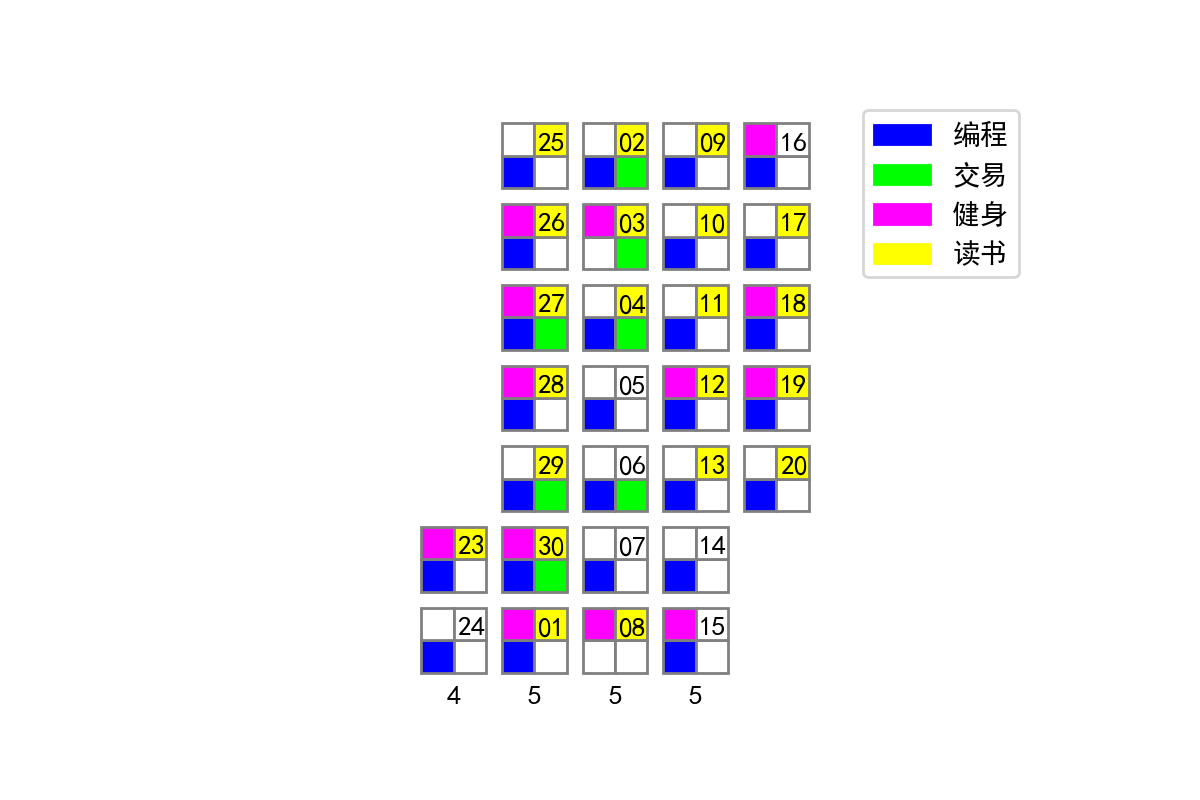
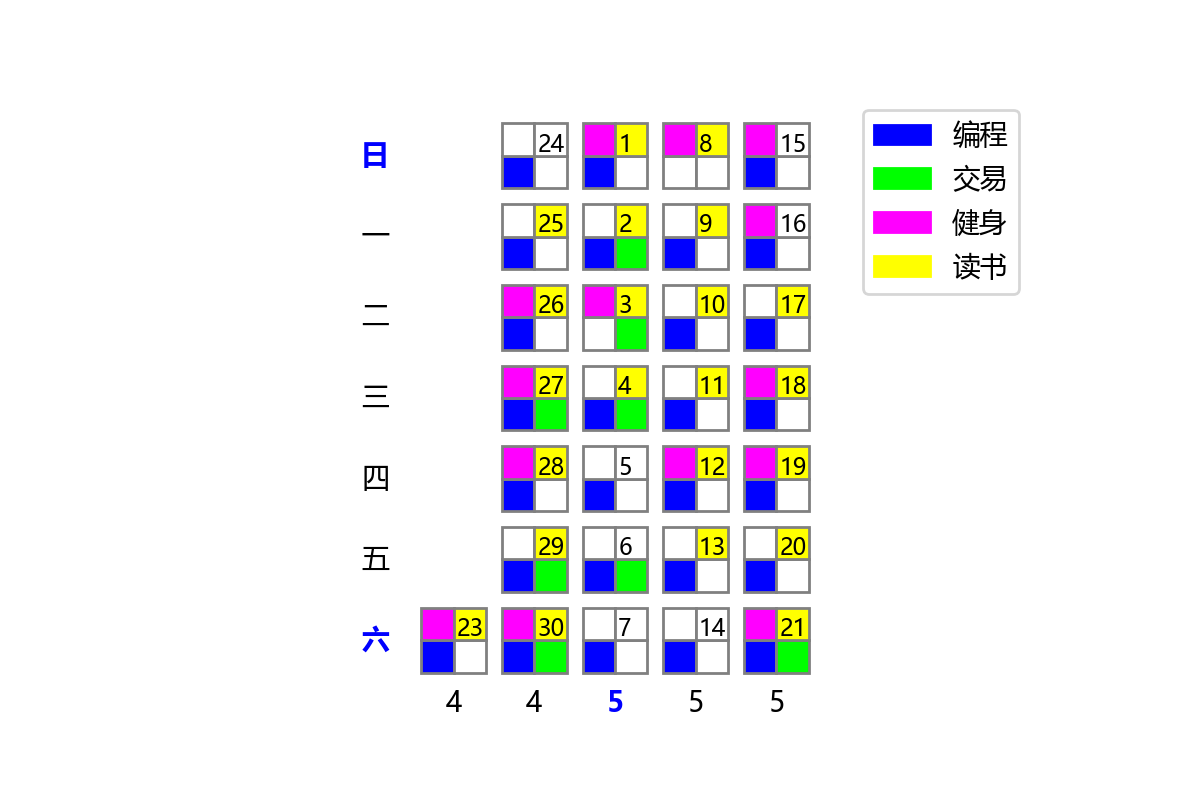
+ Refactor codes and improve calendar formats

diff --git a/data_vis.py b/data_vis.py
@@ -4,7 +4,7 @@ from matplotlib.patches import Rectangle, Patch
 import pandas as pd
 import datetime
 
-plt.rcParams["font.sans-serif"] = ["SimHei"]
+plt.rcParams["font.sans-serif"] = ["Microsoft Yahei"]
 plt.rc("axes", unicode_minus=False)
 
 
@@ -27,62 +27,107 @@ class CalendarPlotter:
     def __init__(self, data_filename="data.csv"):
         self.aspect = 8
         self.action_color_dict = {
-            "code": "#0000FF",
-            "trade": "#00FF00",
-            "body": "#FF00FF",
-            "read": "#FFFF00",
+            "code": "#0000FF",  # blue
+            "trade": "#00FF00",  # green
+            "body": "#FF00FF",  # pink
+            "read": "#FFFF00",  # yellow
         }
+        self.weekday_zh_list = ["日", "一", "二", "三", "四", "五", "六"]
         self.data_parser = DataParser(data_filename)
         self.df = self.data_parser.df
 
     def plot(self):
-        fig, ax = plt.subplots(dpi=200)
-        ax.set_aspect(self.aspect)
+        fig, self.ax = plt.subplots(dpi=200)
+        self.ax.set_aspect(self.aspect)
+        self.ax.axis("off")
 
-        # Plot daily blocks
         row0 = self.df.iloc[[0]]
-        wk_offset = row0["date"][0].isoweekday() - 1
-        rect_x_len = 1
-        rect_y_len = rect_x_len / self.aspect
+        self.wk_offset = row0["date"][0].isoweekday()
+        self.rect_x_len = 1
+        self.rect_y_len = self.rect_x_len / self.aspect
+        self.rect_y_gap = 2.5
         for ida, row in self.df.iterrows():
-            for idb, (action, color) in enumerate(self.action_color_dict.items()):
-                # Plot color blocks
-                rect_x = rect_x_len * ((idb % 2) + 2.5 * ((ida + wk_offset) // 7))
-                rect_y = rect_y_len * ((idb // 2) - 2.5 * ((ida + wk_offset) % 7))
-                facecolor = color if row[action] == 1 else "white"
-                rect = Rectangle(
-                    (rect_x, rect_y),
-                    *(rect_x_len, rect_y_len),
-                    facecolor=facecolor,
-                    edgecolor="gray",
-                )
-                ax.add_patch(rect)
+            rect_x, rect_y = self.plot_daily_rects(ida, row)
+            self.plot_day_month_texts(row, rect_x, rect_y)
+        self.plot_week_texts()
+        self.plot_legends()
 
-            # Plot day and month texts
-            date = row["date"]
-            day_text_x = rect_x + rect_x_len / 10
-            day_text_y = rect_y + rect_y_len / 8
-            date_text_str = f"{date.day:02}"
-            plt.text(day_text_x, day_text_y, date_text_str)
+        self.ax.plot()
+        # plt.show()
+        plt.savefig("calendar.png")
 
-            if date.isoweekday() == 7:
-                month_text_x = rect_x
-                month_text_y = rect_y - rect_y_len * 2
-                month_text_str = f"{date.month}"
-                # month_text_str = date.strftime("%b")
-                plt.text(month_text_x, month_text_y, month_text_str, ha="center")
+    def plot_daily_rects(self, ida, row):
+        for idb, (action, color) in enumerate(self.action_color_dict.items()):
+            rect_x = self.rect_x_len * (
+                (idb % 2) + self.rect_y_gap * ((ida + self.wk_offset) // 7)
+            )
+            rect_y = self.rect_y_len * (
+                (idb // 2) - self.rect_y_gap * ((ida + self.wk_offset) % 7)
+            )
+            facecolor = color if row[action] == 1 else "white"
+            rect = Rectangle(
+                (rect_x, rect_y),
+                *(self.rect_x_len, self.rect_y_len),
+                facecolor=facecolor,
+                edgecolor="gray",
+            )
+            self.ax.add_patch(rect)
+        return rect_x, rect_y
 
-        # Plot legends
+    def plot_day_month_texts(self, row, rect_x, rect_y):
+        # Plot day texts
+        date = row["date"]
+        day_text_x = rect_x + self.rect_x_len / 10
+        day_text_y = rect_y + self.rect_y_len / 8
+        date_text_str = f"{date.day:01}"
+        plt.text(day_text_x, day_text_y, date_text_str, fontsize="small")
+
+        # Plot month texts
+        if date.isoweekday() == 6:
+            month_text_x = rect_x
+            month_text_y = rect_y - self.rect_y_len * 1.5
+            month_text_str = f"{date.month}"
+            # month_text_str = date.strftime("%b")
+            one_week_delta = datetime.timedelta(days=7)
+            if date.month == (date - one_week_delta).month:
+                color, fontweight = "black", "normal"
+            else:
+                color, fontweight = "blue", "bold"
+            plt.text(
+                month_text_x,
+                month_text_y,
+                month_text_str,
+                va="top",
+                ha="center",
+                color=color,
+                fontweight=fontweight,
+            )
+
+    def plot_week_texts(self):
+        for i in range(7):
+            weekday_text_y = self.rect_y_len * (-self.rect_y_gap * i + 1)
+            weekday_text_x = self.rect_x_len * (-1.0)
+            weekday_text_str = self.weekday_zh_list[i]
+            if i not in [0, 6]:
+                color, fontweight = "black", "normal"
+            else:
+                color, fontweight = "blue", "bold"
+            plt.text(
+                weekday_text_x,
+                weekday_text_y,
+                weekday_text_str,
+                va="center",
+                ha="right",
+                color=color,
+                fontweight=fontweight,
+            )
+
+    def plot_legends(self):
         handles = []
         for idb, (action, color) in enumerate(self.action_color_dict.items()):
             patch = Patch(color=color, label=self.data_parser.action_en_zh_dict[action])
             handles.append(patch)
         plt.legend(handles=handles, bbox_to_anchor=(1.05, 1))
-
-        ax.axis("off")
-        ax.plot()
-        # plt.show()
-        plt.savefig("calendar.png")
 
 
 calendar_plotter = CalendarPlotter()

diff --git a/bodybuiding.md b/bodybuiding.md
@@ -31,13 +31,13 @@
     * 大臂往身体前30度，符合肩胛平面
 * 腹肌：卷腹，3组10-15次
 
-## 5+7：背+肱三头肌
-* 上背：高位哑铃划船，4组8次（图11-17）
-  * 细节：胸部卡于60度斜板顶端，大重量
+## 3+7：背+肱三头肌
+* 上背：单臂哑铃划船，4组8次（图11-17）
+  * 细节：大重量，背部挺直，与地面水平
   * https://zhuanlan.zhihu.com/p/64083376
   * https://www.zhihu.com/question/37712072/answer/73189832
 * 背：正手引体向上，3组5次
-* 肱三头肌：哑铃俯身臂屈伸
+* 肱三头肌：哑铃俯身臂屈伸，3组5次
   * https://zhuanlan.zhihu.com/p/40610317
 
 ## 臀+腿
